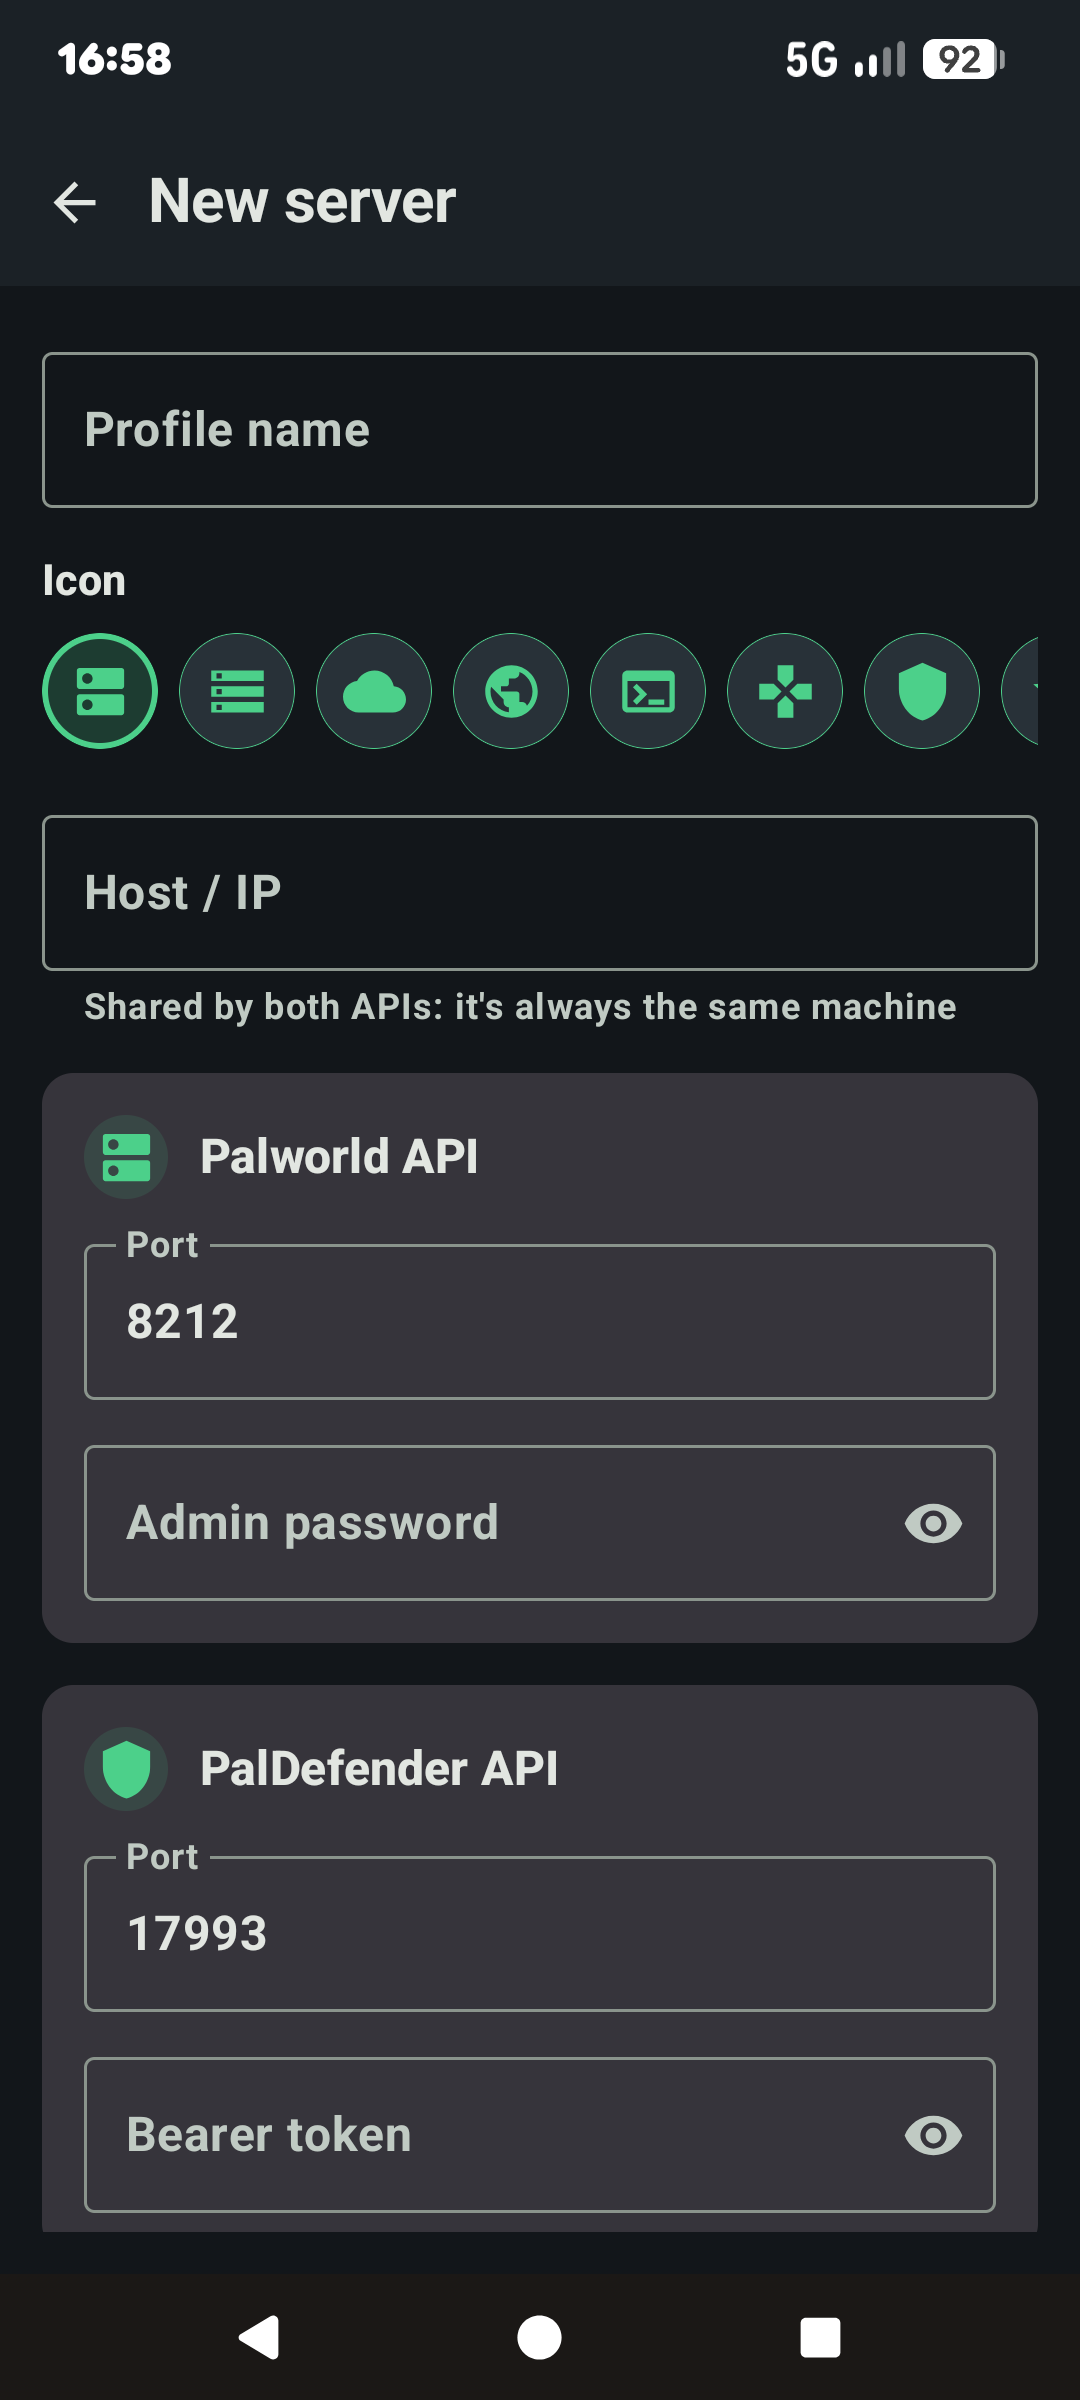
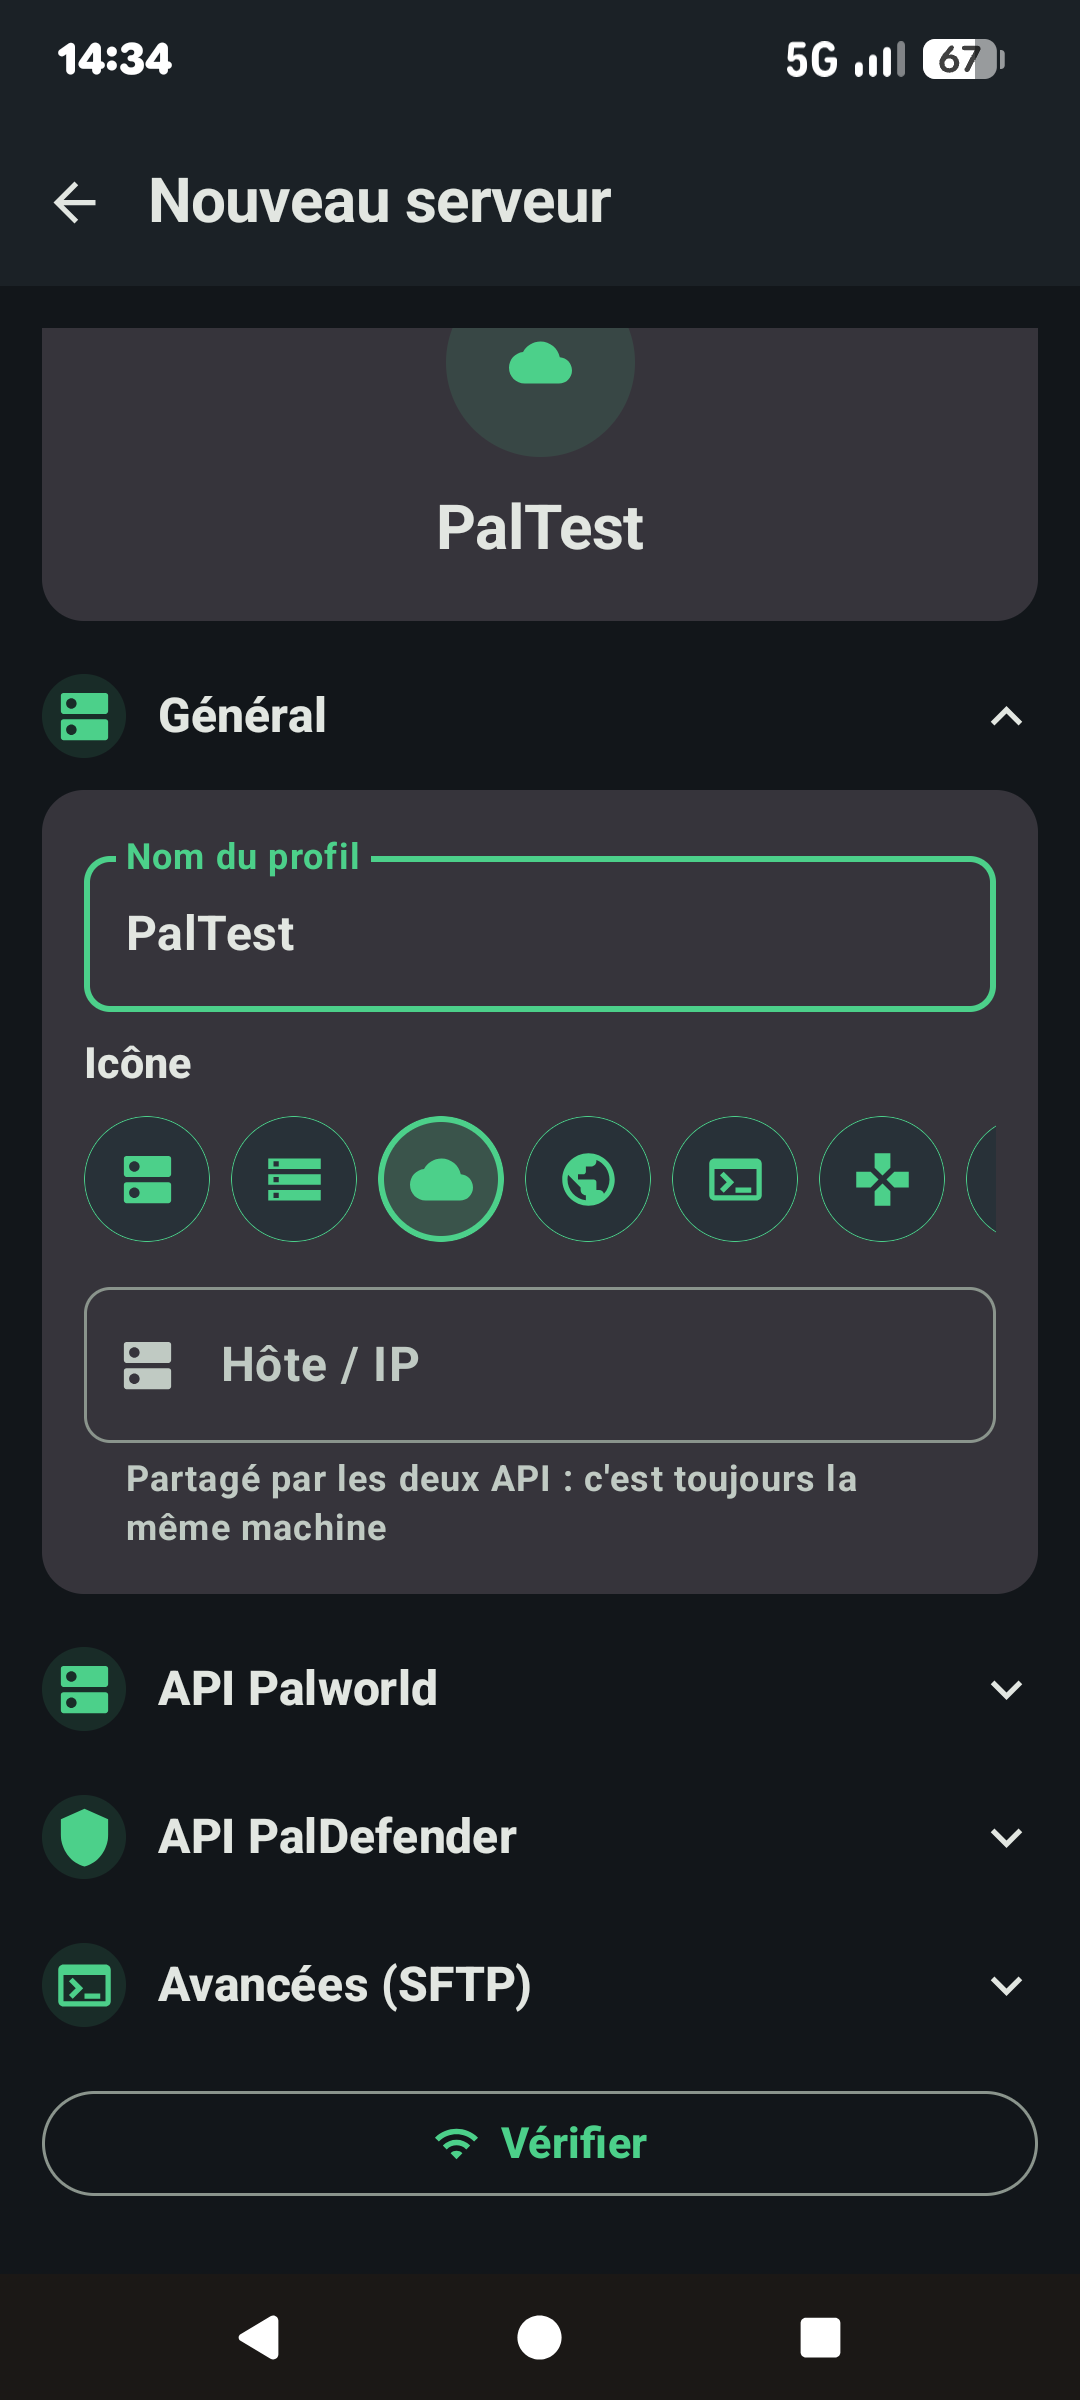
Add real screenshots for Pal Creator, SFTP, Logs, new Add Server
Replaces the outdated Add Server screenshot with the redesigned
screen (preview card, collapsible sections, Verify button).

diff --git a/docs/index.html b/docs/index.html
@@ -429,6 +429,10 @@
       <figure><img src="screenshots/give_pals.png" alt="Donner un Pal" loading="lazy"><figcaption>Donner un Pal</figcaption></figure>
       <figure><img src="screenshots/inventory.png" alt="Inventaire d'un joueur" loading="lazy"><figcaption>Inventaire d'un joueur</figcaption></figure>
       <figure><img src="screenshots/alert.png" alt="Diffusion & maintenance" loading="lazy"><figcaption>Diffusion & maintenance</figcaption></figure>
+      <figure><img src="screenshots/add_server.png" alt="Ajout d'un serveur" loading="lazy"><figcaption>Ajout d'un serveur</figcaption></figure>
+      <figure><img src="screenshots/pal_creator.png" alt="Créateur de Pal" loading="lazy"><figcaption>Créateur de Pal</figcaption></figure>
+      <figure><img src="screenshots/sftp.png" alt="Gestionnaire SFTP" loading="lazy"><figcaption>Gestionnaire SFTP</figcaption></figure>
+      <figure><img src="screenshots/logs.png" alt="Logs" loading="lazy"><figcaption>Logs</figcaption></figure>
     </div>
   </div>
 </section>

diff --git a/docs/en/index.html b/docs/en/index.html
@@ -429,6 +429,10 @@
       <figure><img src="../screenshots/give_pals.png" alt="Give a Pal" loading="lazy"><figcaption>Give a Pal</figcaption></figure>
       <figure><img src="../screenshots/inventory.png" alt="Player inventory" loading="lazy"><figcaption>Player inventory</figcaption></figure>
       <figure><img src="../screenshots/alert.png" alt="Broadcast & maintenance" loading="lazy"><figcaption>Broadcast & maintenance</figcaption></figure>
+      <figure><img src="../screenshots/add_server.png" alt="Add a server" loading="lazy"><figcaption>Add a server</figcaption></figure>
+      <figure><img src="../screenshots/pal_creator.png" alt="Pal Creator" loading="lazy"><figcaption>Pal Creator</figcaption></figure>
+      <figure><img src="../screenshots/sftp.png" alt="SFTP file manager" loading="lazy"><figcaption>SFTP file manager</figcaption></figure>
+      <figure><img src="../screenshots/logs.png" alt="Logs" loading="lazy"><figcaption>Logs</figcaption></figure>
     </div>
   </div>
 </section>

diff --git a/README.fr.md b/README.fr.md
@@ -26,6 +26,11 @@ officielle Palworld et l'API REST du mod **[PalDefender](https://github.com/Ulti
 </tr>
 <tr>
 <td align="center"><b>Ajout d'un serveur</b><br><img src="docs/screenshots/add_server.png" width="230"></td>
+<td align="center"><b>Créateur de Pal</b><br><img src="docs/screenshots/pal_creator.png" width="230"></td>
+<td align="center"><b>Gestionnaire SFTP</b><br><img src="docs/screenshots/sftp.png" width="230"></td>
+</tr>
+<tr>
+<td align="center"><b>Logs</b><br><img src="docs/screenshots/logs.png" width="230"></td>
 </tr>
 </table>
 

diff --git a/README.md b/README.md
@@ -26,6 +26,11 @@ REST API and the **[PalDefender](https://github.com/UltimeIT/PalDefender)** mod'
 </tr>
 <tr>
 <td align="center"><b>Add a server</b><br><img src="docs/screenshots/add_server.png" width="230"></td>
+<td align="center"><b>Pal Creator</b><br><img src="docs/screenshots/pal_creator.png" width="230"></td>
+<td align="center"><b>SFTP file manager</b><br><img src="docs/screenshots/sftp.png" width="230"></td>
+</tr>
+<tr>
+<td align="center"><b>Logs</b><br><img src="docs/screenshots/logs.png" width="230"></td>
 </tr>
 </table>
 
